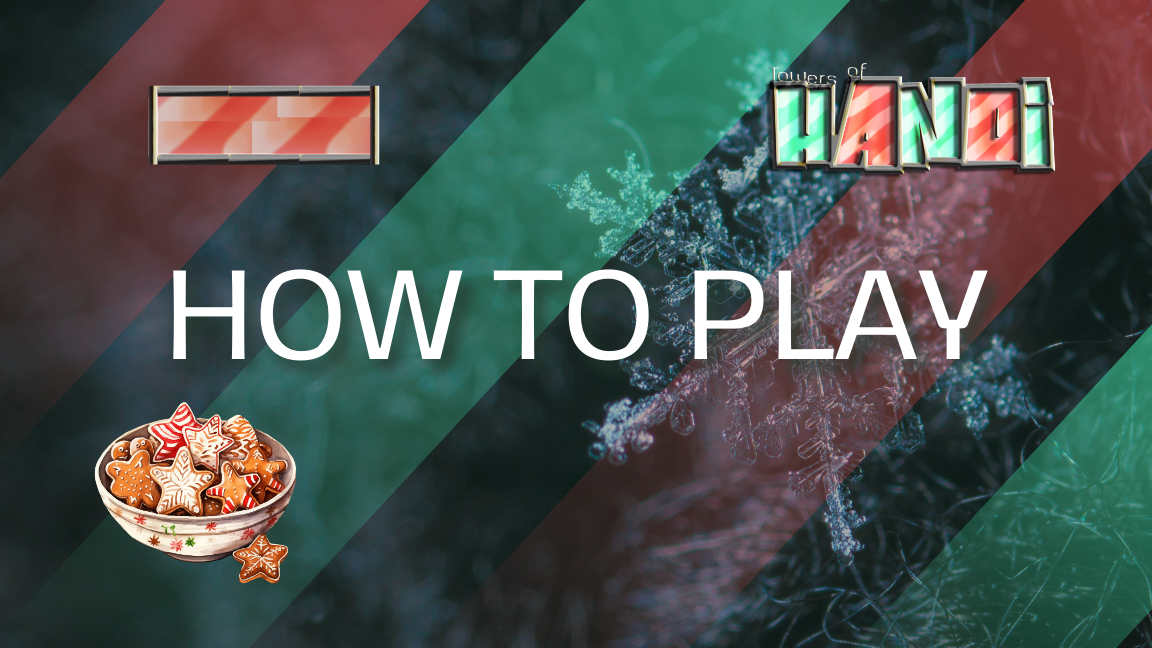
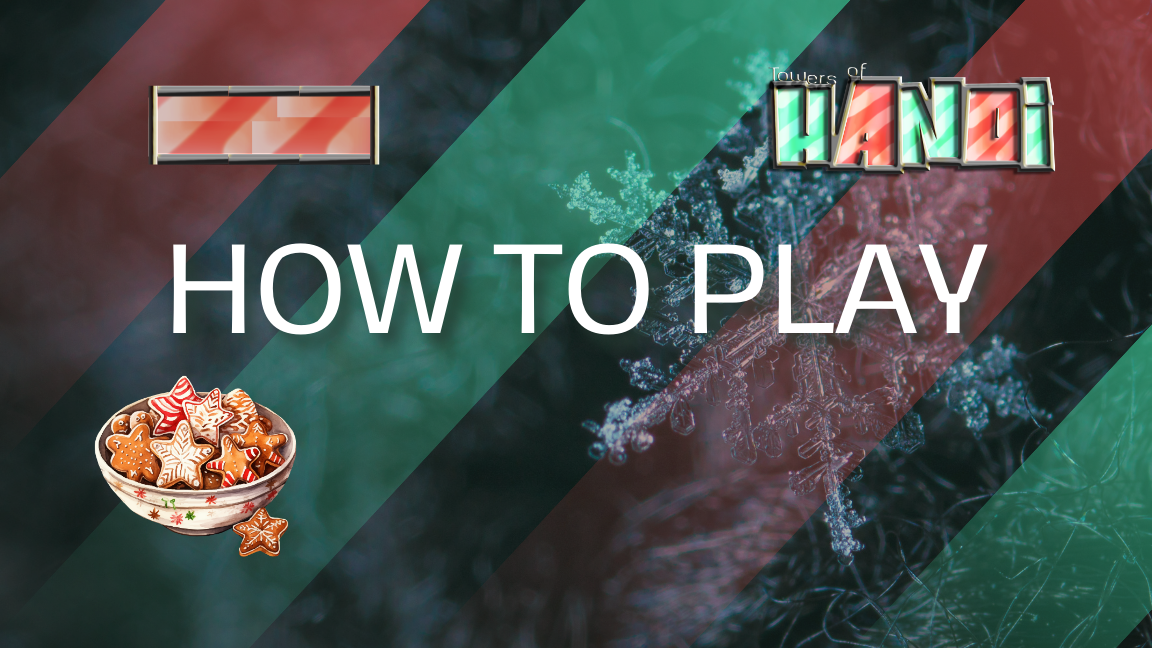
:)

Changed region(s): [[0.125, 0.3704, 0.5625, 0.5864], [0.0625, 0.5864, 0.2812, 0.8951], [0.5938, 0.3704, 0.875, 0.5864]]

diff --git a/src/Instructions.java b/src/Instructions.java
@@ -64,6 +64,7 @@ public class Instructions extends JFrame{
                 "<BR>   * Bigger rings cannot be placed on top of smaller rings" +
                 "<BR>   * Only one ring can be moved at a time (a stack of rings can't be moved together)" +
                 "<BR>   * Only the ring at the top of any stack can be moved (none from the middle/bottom)" +
+                "<BR>   * Click and drop (not drag and drop) to move the chosen Hanoi Ring" +
                 "<BR>" +
                 "<BR>TIP: Try to do it in as few moves as possible! Good luck, player!" +
                 "</HTML>");
@@ -74,7 +75,7 @@ public class Instructions extends JFrame{
         instructionsToShow.setBorder(BorderFactory.createEmptyBorder());
         instructionsToShow.setOpaque(false);
         instructionsToShow.setForeground(white);
-        instructionsToShow.setBounds(320,300,760,400);
+        instructionsToShow.setBounds(320,275,760,400);
         pane.add(instructionsToShow);
 
         JLabel instructionsShadow = new JLabel(instructionText);
@@ -83,7 +84,7 @@ public class Instructions extends JFrame{
         instructionsShadow.setBorder(BorderFactory.createEmptyBorder());
         instructionsShadow.setOpaque(false);
         instructionsShadow.setForeground(new Color(54, 68, 65));
-        instructionsShadow.setBounds(322,301,760,400);
+        instructionsShadow.setBounds(322,276,760,400);
         pane.add(instructionsShadow);
 
         Back.addActionListener(new ActionListener() {
